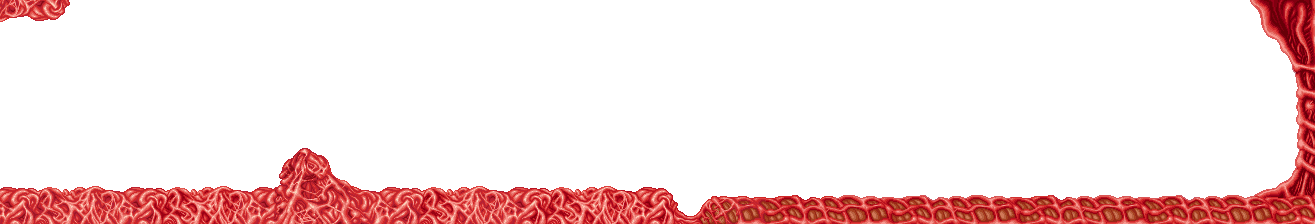
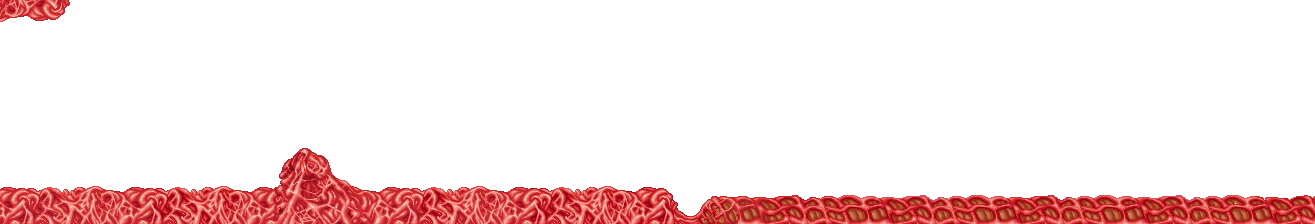
lvl 3 sprites adjusted and fade to black and fade in background effect added, also now timing is right

Changed region(s): [[0.9354, 0.0, 1.0, 0.9062]]

diff --git a/Andro dunos 0.1/Level03.cpp b/Andro dunos 0.1/Level03.cpp
@@ -50,12 +50,15 @@ bool Level03::Start()
 	layout[1] = App->textures->Load("Images/Level03/layout2.png");
 	layout[2] = App->textures->Load("Images/Level03/layout3.png");
 	layout[3] = App->textures->Load("Images/Level03/layout4.png");
-	layout[4] = App->textures->Load("Images/Level03/layout5.png");
+	layout[4] = App->textures->Load("Images/Level03/layout4_5.png");
+	layout[5] = App->textures->Load("Images/Level03/layout5.png");
 	finalbackground = App->textures->Load("Images/Level03/final_background.png");
 
 	music_level03 = App->audio->LoadMusic("Music/Songs/09_Stage_3-Alien-Intro.ogg");
 	music_level03v2 = App->audio->LoadMusic("Music/Songs/09_Stage_3-Alien-Loop.ogg");
 	App->audio->PlayMusic(music_level03);
+
+	i = 0;
 
 	return true;
 }
@@ -76,6 +79,7 @@ bool Level03::CleanUp()
 	App->textures->Unload(layout[2]);
 	App->textures->Unload(layout[3]);
 	App->textures->Unload(layout[4]);
+	App->textures->Unload(layout[5]);
 	App->textures->Unload(finalbackground);
 	App->audio->UnloadMusic(music_level03);
 	App->audio->UnloadMusic(music_level03v2);
@@ -111,12 +115,21 @@ update_status Level03::Update()
 
 	// Draw everything --------------------------------------
 	for (int i = 0; i < 10; ++i) if (!App->render->Blit(background1, 400 * i, 0, NULL, 0.38f)) return update_status::UPDATE_ERROR;
-	for (int i = 0; i < 17; ++i) if (!App->render->Blit(finalbackground, 3470 + 80 * i, 0, NULL, 0.38f)) return update_status::UPDATE_ERROR;
+	for (int i = 0; i < 18; ++i) if (!App->render->Blit(finalbackground, 3370 + 80 * i, 0, NULL, 0.38f)) return update_status::UPDATE_ERROR;
+	if (App->render->camera.x >= 8040 * SCREEN_SIZE && App->render->camera.x <= 8850 * SCREEN_SIZE) {
+		if (i < 255) i += 3;
+			App->render->DrawQuad({ App->render->camera.x * SCREEN_SIZE, 0, SCREEN_WIDTH, SCREEN_HEIGHT }, 0, 0, 0, i);
+	}
+	if (App->render->camera.x >= 8850 * SCREEN_SIZE && App->render->camera.x <= 8950 * SCREEN_SIZE) {
+		if (i > 0) i -= 5;
+		App->render->DrawQuad({ App->render->camera.x * SCREEN_SIZE, 0, SCREEN_WIDTH, SCREEN_HEIGHT }, 0, 0, 0, i);
+	}
 	if (!App->render->Blit(layout[0], 0, 0, nullptr, 0.75f)) return update_status::UPDATE_ERROR;
 	if (!App->render->Blit(layout[1], 1842, 0, nullptr, 0.75f)) return update_status::UPDATE_ERROR;
 	if (!App->render->Blit(layout[2], 3684, 0, nullptr, 0.75f)) return update_status::UPDATE_ERROR;
 	if (!App->render->Blit(layout[3], 5530, 0, nullptr, 0.75f)) return update_status::UPDATE_ERROR;
-	if (!App->render->Blit(layout[4], 7678, 0, nullptr, 0.75f)) return update_status::UPDATE_ERROR;
+	if (!App->render->Blit(layout[4], 6800, 0, nullptr, 0.75f)) return update_status::UPDATE_ERROR;
+	if (!App->render->Blit(layout[5], 7707, 0, nullptr, 0.75f)) return update_status::UPDATE_ERROR;
 	//colliders
 	if (App->input->keyboard[SDL_SCANCODE_4] == KEY_STATE::KEY_REPEAT)
 	{

diff --git a/Andro dunos 0.1/Level03.h b/Andro dunos 0.1/Level03.h
@@ -21,13 +21,14 @@ public:
 
 public:
 	SDL_Texture* background1;
-	SDL_Texture* layout[5];
+	SDL_Texture* layout[6];
 	SDL_Texture* finalbackground;
 	Mix_Music* music_level03 = nullptr;
 	Mix_Music* music_level03v2 = nullptr;
 	bool mus_change = 0;
 	// Controller input
 	bool y_pressed = false;
+	uint i;
 
 };
 

diff --git a/Andro dunos 0.1/ModulePlayer.cpp b/Andro dunos 0.1/ModulePlayer.cpp
@@ -105,6 +105,8 @@ bool ModulePlayer::Start()
 // Unload assets
 bool ModulePlayer::CleanUp()
 {
+
+ 
 	LOG("Unloading player");
 	App->audio->UnloadSoundEffect(player_death);
 	App->audio->UnloadSoundEffect(laser_sound);
